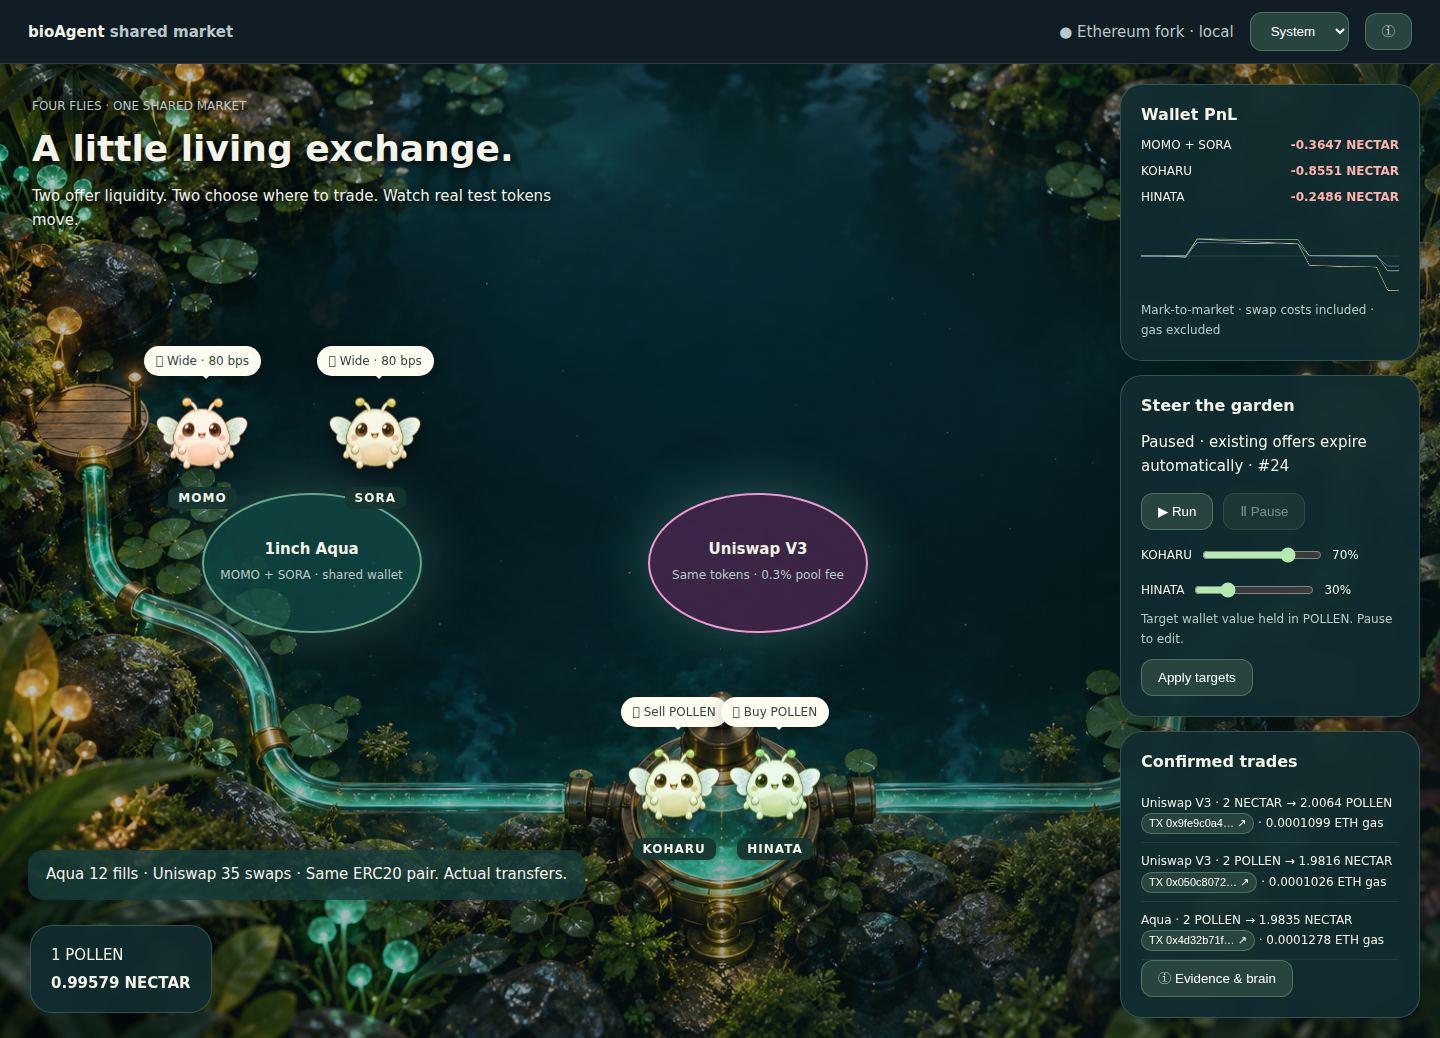
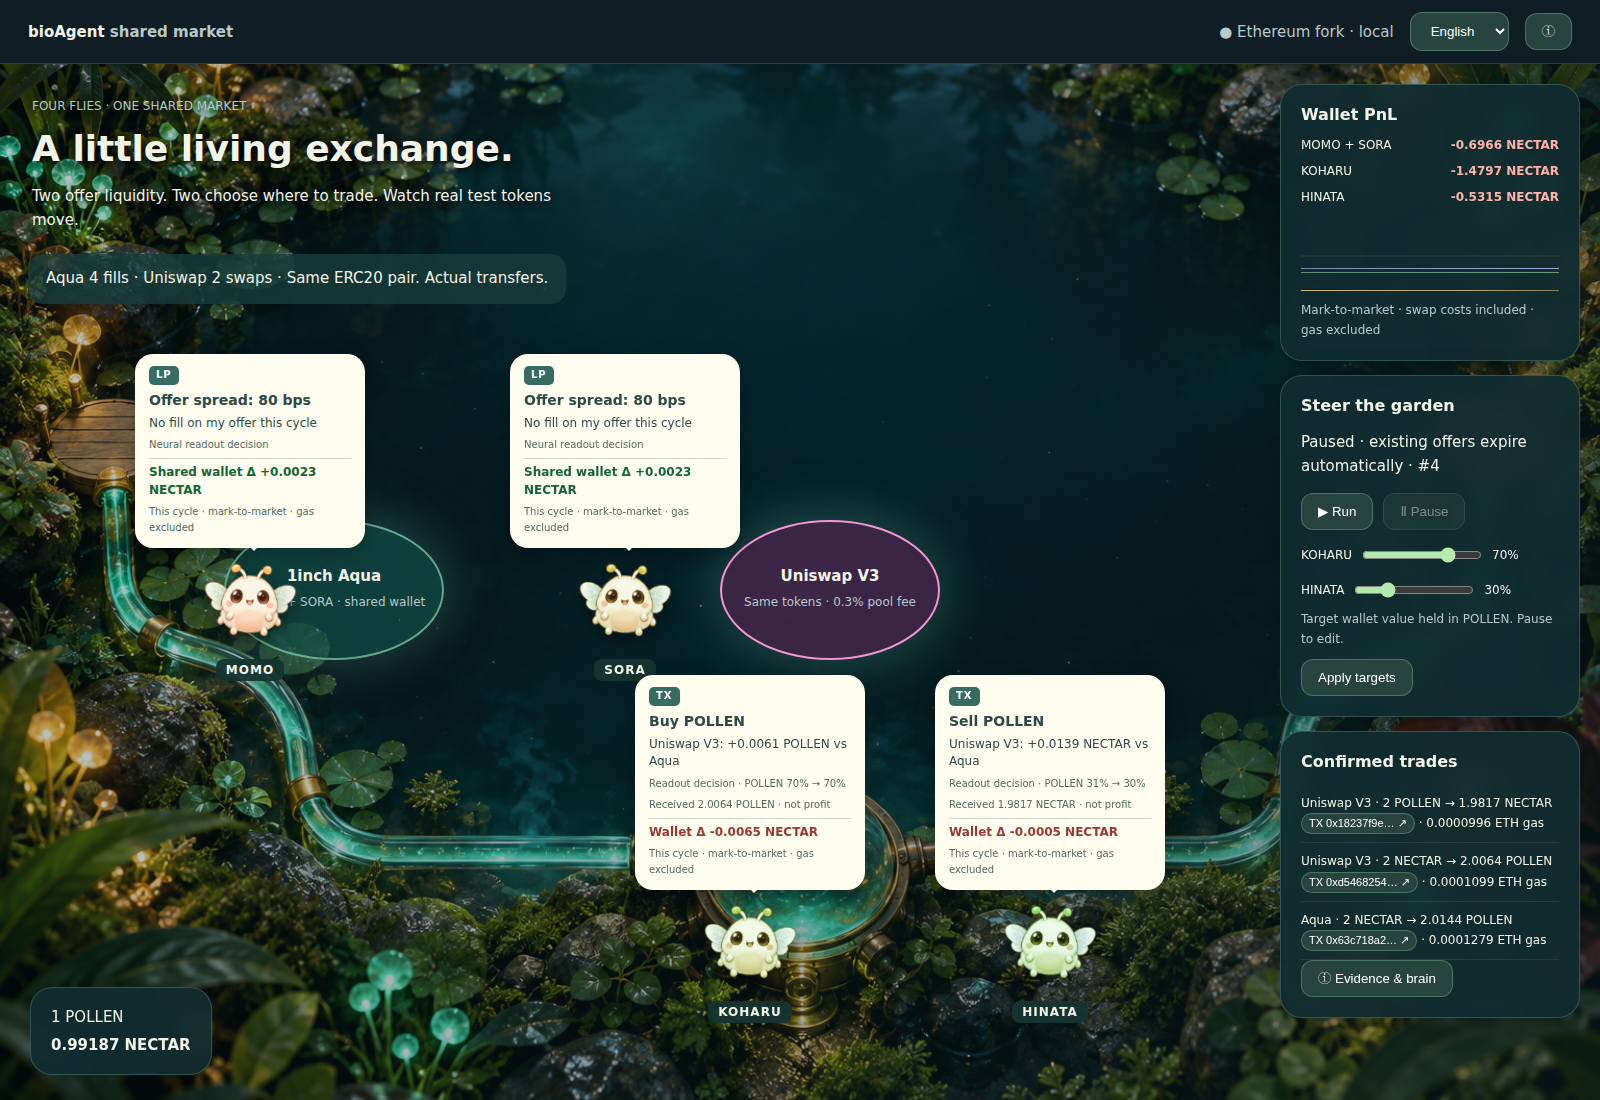
🐛 ハエの移動理由と約定結果を吹き出しに表示
・待機時にUniswapへ移動してしまう表示を修正し、確認済み約定先へ移動
・経路ごとの受取比較、実受取額、今回の評価損益、未約定と共有口座を区別
・フォント依存の絵文字を文字バッジに置換し、日本語フォント候補を指定
・4周期の実取引で英日表示を確認し、390px幅でも全吹き出しが収まることを検証
・誤解しやすい利益表示のテスト4件と実画面付き説明書を更新

diff --git a/services/shared-market/style.css b/services/shared-market/style.css
@@ -328,3 +328,96 @@ a {
   white-space: nowrap;
   font-size: 12px;
 }
+/* Speech bubbles use text/CSS rather than platform-dependent emoji glyphs. */
+body {
+  font-family: system-ui, 'Noto Sans CJK JP', 'Yu Gothic', 'Meiryo', sans-serif;
+}
+#flies {
+  position: absolute;
+  inset: 0 350px 0 0;
+  pointer-events: none;
+}
+.fly {
+  transform: translateX(-50%);
+}
+.bubble {
+  width: 230px;
+  white-space: normal;
+  display: grid;
+  gap: 5px;
+  line-height: 1.45;
+  padding: 12px 14px;
+}
+.bubble strong {
+  font-size: 14px;
+}
+.bubble small {
+  color: #526963;
+  font-size: 10px;
+}
+.bubble-badge {
+  justify-self: start;
+  font-size: 10px;
+  font-weight: 800;
+  letter-spacing: 1px;
+  color: #fff;
+  background: #376c60;
+  border-radius: 5px;
+  padding: 2px 7px;
+}
+.bubble-result {
+  border-top: 1px solid #cbd8cb;
+  padding-top: 5px;
+  font-weight: 700;
+}
+.bubble-result.gain {
+  color: #166337;
+}
+.bubble-result.loss {
+  color: #9b3730;
+}
+@media (max-width: 1100px) and (min-width: 701px) {
+  #flies {
+    right: 300px;
+  }
+  .bubble {
+    width: 180px;
+    font-size: 11px;
+  }
+}
+@media (max-width: 700px) {
+  #world {
+    height: 1100px;
+  }
+  #flies {
+    right: 0;
+  }
+  .bubble {
+    width: 170px;
+    padding: 10px;
+    font-size: 11px;
+  }
+  .bubble strong {
+    font-size: 12px;
+  }
+  .venue {
+    top: 51%;
+    width: 135px;
+  }
+  .uni {
+    left: 59%;
+  }
+}
+#flow {
+  top: 190px;
+  bottom: auto;
+}
+@media (max-width: 700px) {
+  #flow {
+    top: 205px;
+    font-size: 12px;
+  }
+}
+.fly {
+  grid-template-columns: minmax(0, 1fr);
+}

diff --git a/docs/apps/shared-market/README.md b/docs/apps/shared-market/README.md
@@ -35,18 +35,20 @@
 
 ## 吹き出し
 
-![実際の日本語説明モーダル](help-ja.png)
+![移動理由と約定結果を表示する日本語の吹き出し](bubbles-ja.png)
 
 | 表示 | ハエの状態とオンチェーン処理 |
 | --- | --- |
-| `💭 ?` | 確認済み価格・残高・目標を入力し、MaleCNSの神経活動を計算している。上下の揺れを停止する |
-| `🌸 Tight · 10 bps` | 市場参照価格から0.1%を差し引く交換条件をshipした。まだ約定や利益の意味ではない |
-| `🌸 Wide · 80 bps` | 0.8%の幅を取る。Uniswapの受取量が上回れば買い手はそちらへ流れる |
-| `💤 Withdrawn` | このハエのAqua戦略を撤回した。他の戦略まで止める操作ではない |
-| `🛒 Buy / 🪙 Sell` | 表示された基準通貨を買う・売る。別の通貨を入力して実スワップする |
-| `💤 Hold` | 発注しない |
-| `🧠 ?` | 約定・待機の結果から、次回判断に使う読み出しの重みを更新中 |
-| `exploring / 探索中` | 12%の確率で実施する実験的な行動探索。常に神経スコア最大の行動を選んだという意味ではない |
+| `?` 考え中 / 学び直し中 | 価格・残高をMaleCNSへ入力、または結果からreadout更新。その場で揺れを止める |
+| `LP` 提示幅 | 自分のAqua戦略の提示幅と、今回その戦略で何件成立したか。未約定は「約定なし」と表示 |
+| `TX` 買う / 売る | 約定先へ移動し、「他の経路より受取 +数量」を表示。比較はガス代を除く見積もり |
+| `受取数量` | 実receiptのトークン受取額。利益額ではないことを明記 |
+| `口座の増減` | 今回の周期の開始から終了までの時価評価差。プラスは緑、マイナスは赤。ガス代は含まない |
+| `共有口座の増減` | MOMO/SORAの共通ウォレット全体の時価評価差。個体別利益ではなく、未約定でも在庫価格で変化する |
+| `WAIT` | その場で待機、発注なし。新たにUniswapへ移動しない |
+| `探索行動` | 実験的な行動探索として選んだことを明記。保有比率と目標比率も併記 |
+
+文字化けを避けるため、吹き出し内の絵文字を使わず、CSSと文字ラベルで表示します。スマートフォンでは重なりを避けて個体の位置を固定し、取引先は吹き出しに明記します。
 
 これらは**実装した状態を表す演出**です。ハエの意識・感情や、個々の生体神経の思考内容を解読したものではありません。
 
